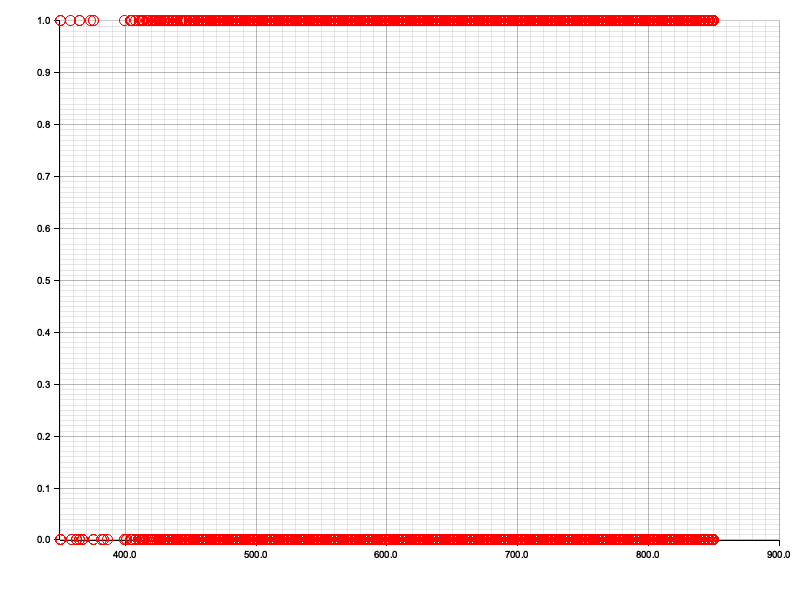
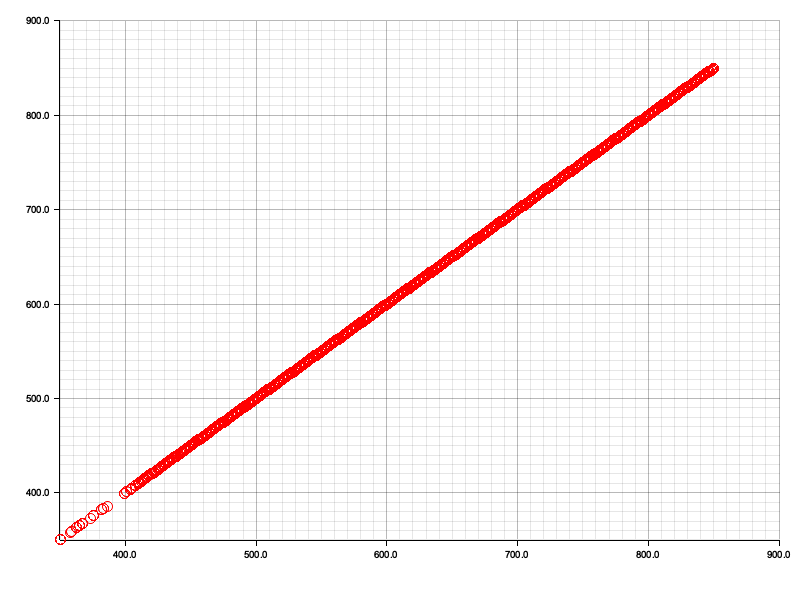
feat:test

Changed region(s): [[0.0312, 0.0, 0.9688, 0.93]]

diff --git a/src/titanic/titanic.rs b/src/titanic/titanic.rs
@@ -1,15 +1,14 @@
 use polars::prelude::*;
+use polars_lazy::dsl::col;
 use std::fs::File;
-use smartcore::neighbors::knn_classifier::*;
 use smartcore::linalg::basic::matrix::DenseMatrix;
 use smartcore::metrics::*;
 use polars::prelude::{CsvWriter, DataFrame, NamedFrom, SerWriter, Series};
 use smartcore::ensemble::random_forest_classifier::{RandomForestClassifier,RandomForestClassifierParameters};
-
+use smartcore::{decomposition::pca::{PCA,PCAParameters}, linalg::basic::arrays::Array};
 
 pub fn main(){
     /*===================data========================= */
-
    let train_df: DataFrame = CsvReader::from_path("./datasets/titanic/train.csv")
     .unwrap()
     .finish().unwrap().drop_many(&["PassengerId","Name", "Ticket"]);
@@ -23,40 +22,49 @@ pub fn main(){
    //데이터 미리보기
    println!("데이터 미리보기:{}",train_df.head(None));
    println!("데이터 정보 확인:{:?}",train_df.schema());
-    /*===================data========================= */
+   println!("null확인:{:?}",train_df.null_count());
+  /*
+   범주형 : Survived, Sex, Embarkd / PClass
+   수치형 : SibSp, Parch / Age, Fare 
+   */
+  /*===================data========================= */
 
  
    
 /*===================processing========================= */
-/*Pclass */
+/*null처리 */
 
-//value_count 확인
-println!("{:?}", train_df.column("Pclass").unwrap().value_counts(false,false).unwrap());
+let train_df= train_df.clone().lazy().with_columns([
+    col("Age").fill_null((col("Age").mean())),
+    col("Embarked").fill_null(lit("S")),
+
+]).collect().unwrap().drop_many(&["Cabin"]);
+
+let test_df: DataFrame=test_df.clone().lazy().with_columns([
+    col("Age").fill_null((col("Age").mean())),
+    col("Embarked").fill_null(lit("S")),
+
+]).collect().unwrap().drop_many(&["Cabin"]);
+//범주형 먼저 처
+/*Pclass */
+println!("중간점검:{:?}",train_df.tail(Some(3)));
+println!("null확인:{:?}",train_df.null_count());
+
 //dummies만들기
 let pclass_train_dummies: DataFrame= train_df.select(["Pclass"]).unwrap().to_dummies(None, false).unwrap();
 let pclass_test_dummies: DataFrame= test_df.select(["Pclass"]).unwrap().to_dummies(None, false).unwrap();
-
-//더미 확인
-println!("{:?}", pclass_train_dummies);
 //join
 let train_df = train_df.hstack(pclass_train_dummies.get_columns()).unwrap().drop(&"Pclass").unwrap();
 let test_df = test_df.hstack(pclass_test_dummies.get_columns()).unwrap().drop(&"Pclass").unwrap();
-
-println!("{:?}", train_df);
-println!("{:?}", test_df);
-
 /*sex */
 let sex_train_dummies: DataFrame= train_df.select(["Sex"]).unwrap().to_dummies(None, false).unwrap();
 let sex_test_dummies: DataFrame= test_df.select(["Sex"]).unwrap().to_dummies(None, false).unwrap();
-println!("{:?}", sex_train_dummies);
-
-let mut train_df: DataFrame = train_df.hstack(sex_train_dummies.get_columns()).unwrap().drop(&"Sex").unwrap();
+let  train_df: DataFrame = train_df.hstack(sex_train_dummies.get_columns()).unwrap().drop(&"Sex").unwrap();
 let mut test_df: DataFrame = test_df.hstack(sex_test_dummies.get_columns()).unwrap().drop(&"Sex").unwrap();
-println!("{:?}", train_df);
+
 
 /*Age */
 
-let  train_df: &mut DataFrame= train_df.with_column(  train_df.column("Age").unwrap().fill_null(FillNullStrategy::Mean).unwrap()).unwrap();
 let  test_df: &mut DataFrame= test_df.with_column(  test_df.column("Age").unwrap().fill_null(FillNullStrategy::Mean).unwrap()).unwrap();
 println!("{:?}", train_df);
 
@@ -65,39 +73,25 @@ println!("{:?}", train_df);
 /*Fare */
 let  test_df: &mut DataFrame= test_df.with_column(  test_df.column("Fare").unwrap().fill_null(FillNullStrategy::Zero).unwrap()).unwrap();
 
-/*Cabin */
-
-let  mut train_df = train_df.drop("Cabin").unwrap();
-let  test_df= test_df.drop("Cabin").unwrap();
-println!("train_df:{:?}",train_df);
-println!("test_df:{:?}",test_df);
-
 
 /*Embarked */
 
-println!("{}",train_df.column("Embarked").unwrap().value_counts(true,false).unwrap());
 /*채우기 */
-let mut  train_df: &mut DataFrame= train_df.with_column(  train_df.column("Embarked").unwrap().fill_null(FillNullStrategy::Backward(None)).unwrap()).unwrap();
-println!("{}",train_df.column("Embarked").unwrap().value_counts(true,false).unwrap());
-
 
 let embarked_train_dummies: DataFrame= train_df.select(["Embarked"]).unwrap().to_dummies(None, false).unwrap();
 let embarked_test_dummies: DataFrame= test_df.select(["Embarked"]).unwrap().to_dummies(None, false).unwrap();
+let train_df: DataFrame = train_df.hstack(embarked_train_dummies.get_columns()).unwrap().drop(&"Embarked").unwrap();
+let test_df: DataFrame = test_df.hstack(embarked_test_dummies.get_columns()).unwrap().drop(&"Embarked").unwrap();
 
-
-
-let mut train_df: DataFrame = train_df.hstack(embarked_train_dummies.get_columns()).unwrap().drop(&"Embarked").unwrap();
-let mut test_df: DataFrame = test_df.hstack(embarked_test_dummies.get_columns()).unwrap().drop(&"Embarked").unwrap();
-
-/*data 변환 */
+// /*data 변환 */
 let y_train= train_df.column("Survived").unwrap();
 let x_train= train_df.drop("Survived").unwrap();
 let x_test= test_df.drop("PassengerId").unwrap().clone();
-//y_train변환
+// //y_train변환
 let y_train: Vec<i64> = y_train.i64().unwrap().into_no_null_iter().collect();
-let y_train= y_train.iter().map(|x|*x as i32).collect();
+let y_train:Vec<i32>= y_train.iter().map(|x|*x as i32).collect();
 
-//x_train변환
+// //x_train변환
 let x_data= x_train.to_ndarray::<Float64Type>(IndexOrder::Fortran).unwrap();
 let mut x_train: Vec<Vec<_>> = Vec::new();
 for row in x_data.outer_iter() {
@@ -122,29 +116,14 @@ let result_train:Vec<i32>= result_train.iter().map(|x|*x as i32).collect();
 
 /*===================processing========================= */
 /*===================model test======================== */
-/*knn */
-let knn: KNNClassifier<f64, i32, DenseMatrix<f64>, Vec<i32>, distance::euclidian::Euclidian<f64>>= KNNClassifier::fit(&x_train, &y_train, KNNClassifierParameters::default().with_k(3)).unwrap();
-let y_pred: Vec<i32> = knn.predict(&x_test).unwrap();
-let acc: f64 = ClassificationMetricsOrd::accuracy().get_score(&result_train,&y_pred);
-println!("{:?}",acc);
-
-// /*로지스틱 */
-// let logreg= LogisticRegression::fit(&train_input, &tarin_target, Default::default()).unwrap();
-// let y_pred: Vec<i32> = logreg.predict(&test_input).unwrap();
-// let acc: f64 = ClassificationMetricsOrd::accuracy().get_score(&test_target, &y_pred);
-// println!("{:?}",acc);
-// /*랜덤포레스트 */
-let random_forest= RandomForestClassifier::fit(&x_train, &y_train,RandomForestClassifierParameters::default().with_n_trees(100)).unwrap();
+/*랜덤포레스트 */
+let random_forest= RandomForestClassifier::fit(&x_train, &y_train,RandomForestClassifierParameters::default().with_n_trees(42)).unwrap();
 let y_pred: Vec<i32> = random_forest.predict(&x_test).unwrap();
 let acc: f64 = ClassificationMetricsOrd::accuracy().get_score(&result_train,&y_pred);
 println!("{:?}",acc);
 /*===================model test======================== */
 /*===================제출용 파일========================= */
-
 //random forest 가 가장 빠르기 때문에
-let random_forest= RandomForestClassifier::fit(&x_train, &y_train,RandomForestClassifierParameters::default().with_n_trees(100)).unwrap();
-let y_pred: Vec<i32> = random_forest.predict(&x_test).unwrap();
-
 let survived_series = Series::new("Survived", y_pred.into_iter().collect::<Vec<i32>>());
 let passenger_id_series = test_df.column("PassengerId").unwrap().clone();
 
@@ -154,9 +133,11 @@ let mut df: DataFrame = DataFrame::new(vec![passenger_id_series, survived_series
 let mut output_file: File = File::create("./datasets/titanic/out.csv").unwrap();
 
 CsvWriter::new(&mut output_file)
-    // .has_header(true)
     .finish(&mut df)
     .unwrap();
 /*===================제출용 파일========================= */
+/*===================result========================= */
+//0.8851674641148325
+/*===================result========================= */
 
 }

diff --git a/src/binary_classification_with_a_bank_churn_dataset/binary_classification_with_a_bank_churn_dataset.rs b/src/binary_classification_with_a_bank_churn_dataset/binary_classification_with_a_bank_churn_dataset.rs
@@ -35,7 +35,7 @@ pub fn main(){
         .margin(20)
         .x_label_area_size(40)
         .y_label_area_size(40)
-        .build_cartesian_2d(350f64..900f64, 0f64..1f64)
+        .build_cartesian_2d((350f64..900f64), 350f64..900f64)
         .unwrap();
 
     chart
@@ -48,12 +48,13 @@ pub fn main(){
             credit_score_vec
                 .iter()
                 .map(|x| {
-                    Circle::new((x[0]as f64, x[1]as f64), 5, Into::<ShapeStyle>::into(RED))
+                    Circle::new((x[0]as f64, x[0]as f64), 5, Into::<ShapeStyle>::into(RED))
                 }),
         )
         .unwrap();
 
-
+ 
+    
     /*======================= */
 
 }

diff --git a/src/main.rs b/src/main.rs
@@ -4,10 +4,10 @@ mod titanic;
 mod store_sales;
 mod binary_classification_with_a_bank_churn_dataset;
 fn main() {
-    // titanic::titanic::main();
+    titanic::titanic::main();
     // spaceship_titanic::spaceship_titanic::main();
     // house_price::house_price::main();
     // store_sales::store_sales::main();
-    binary_classification_with_a_bank_churn_dataset::binary_classification_with_a_bank_churn_dataset::main();
+    // binary_classification_with_a_bank_churn_dataset::binary_classification_with_a_bank_churn_dataset::main();
     
 }

diff --git a/src/titanic/titanic.md b/src/titanic/titanic.md
@@ -1,1 +1,21 @@
 # Titanic - Machine Learning from Disaster
+
+
+## 범주형과 수치형
+
+- 데이터에는 크게 두가지 타입으로 나눌수 있다.
+### 1.범주형 데이터
+- 명목형:성별,혈핵형
+- 순서형:개개의 값들은 이산적이며 순서 관계가 존재하는 자료
+
+### 2.수치형 데이터 이산형과 연속형으로 이루어진 데이터,숫자로표시
+- 이산형:이산적인 값을 갖는 데이터
+- 연속형:연속적인 값을 갖는 데이터
+
+### 
+- 범주형 : Survived, Sex, Embarkd / PClass
+- 수치형 : SibSp, Parch / Age, Fare
+- 혼합형:Ticket, Cabin
+
+## null 처리
+
